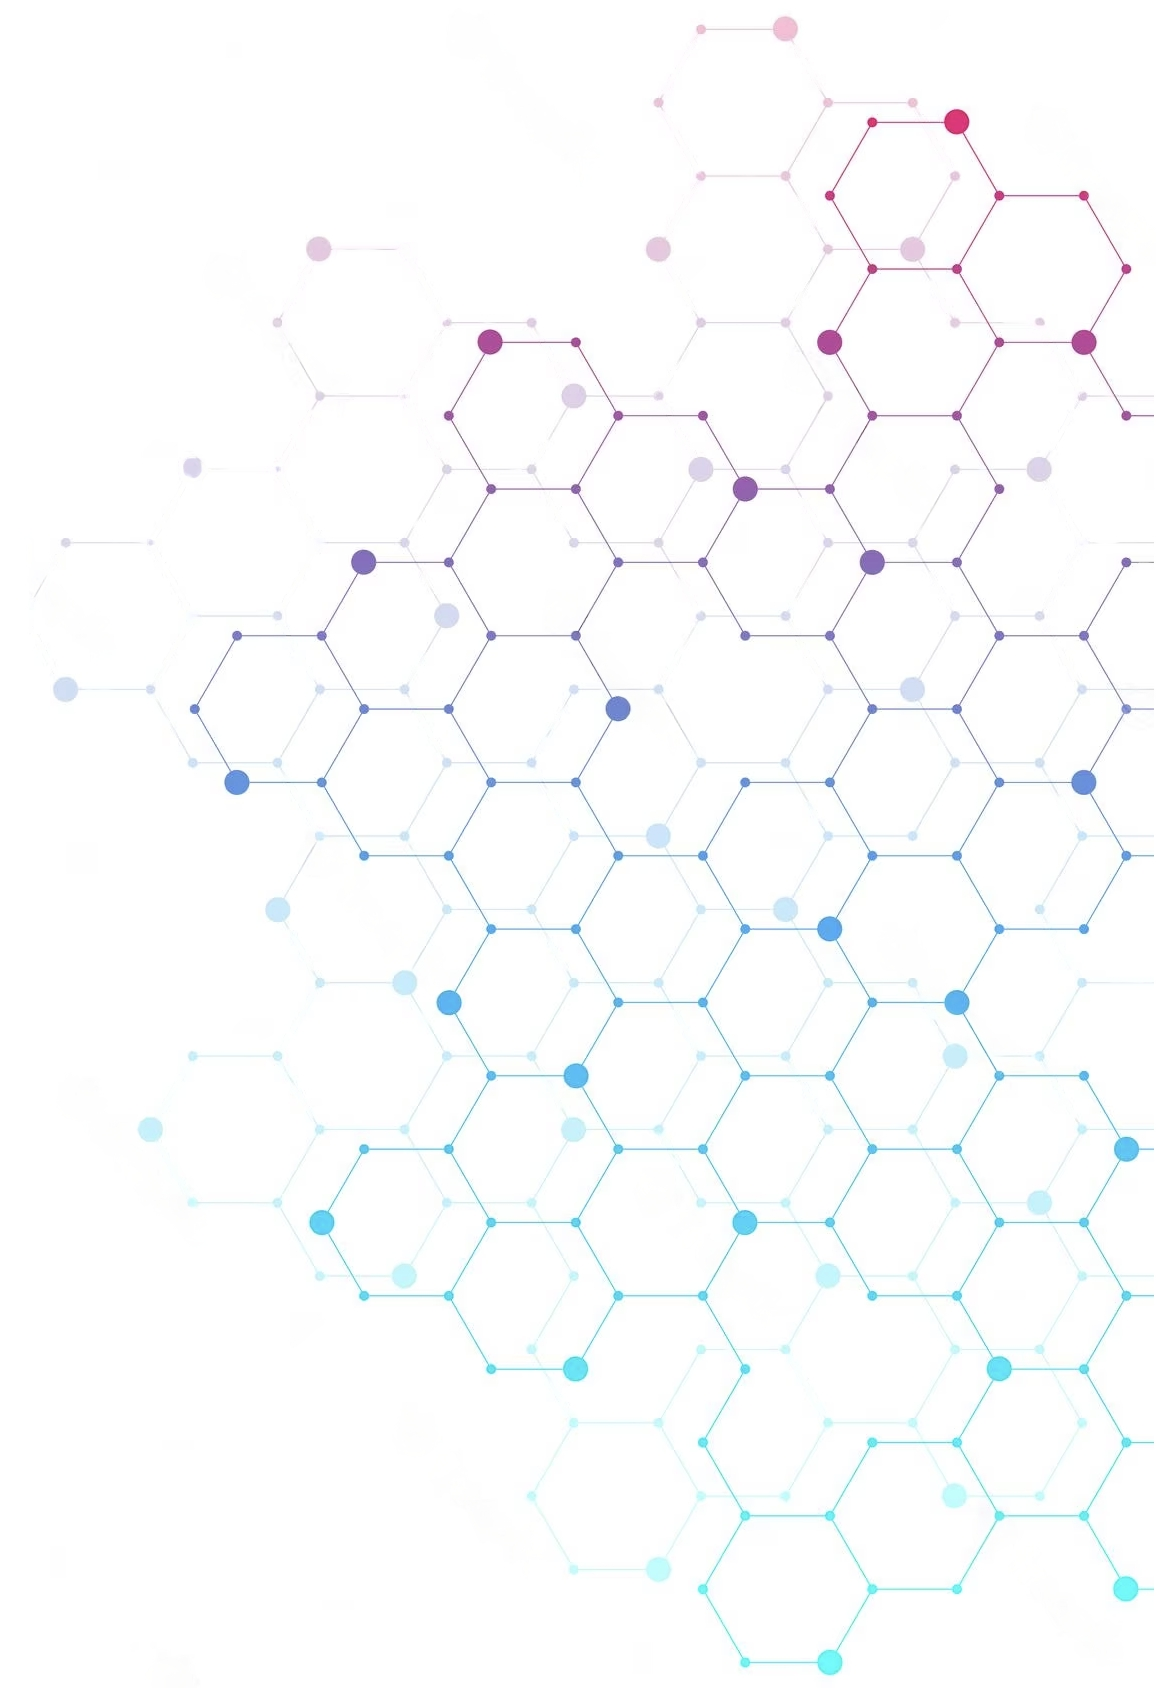
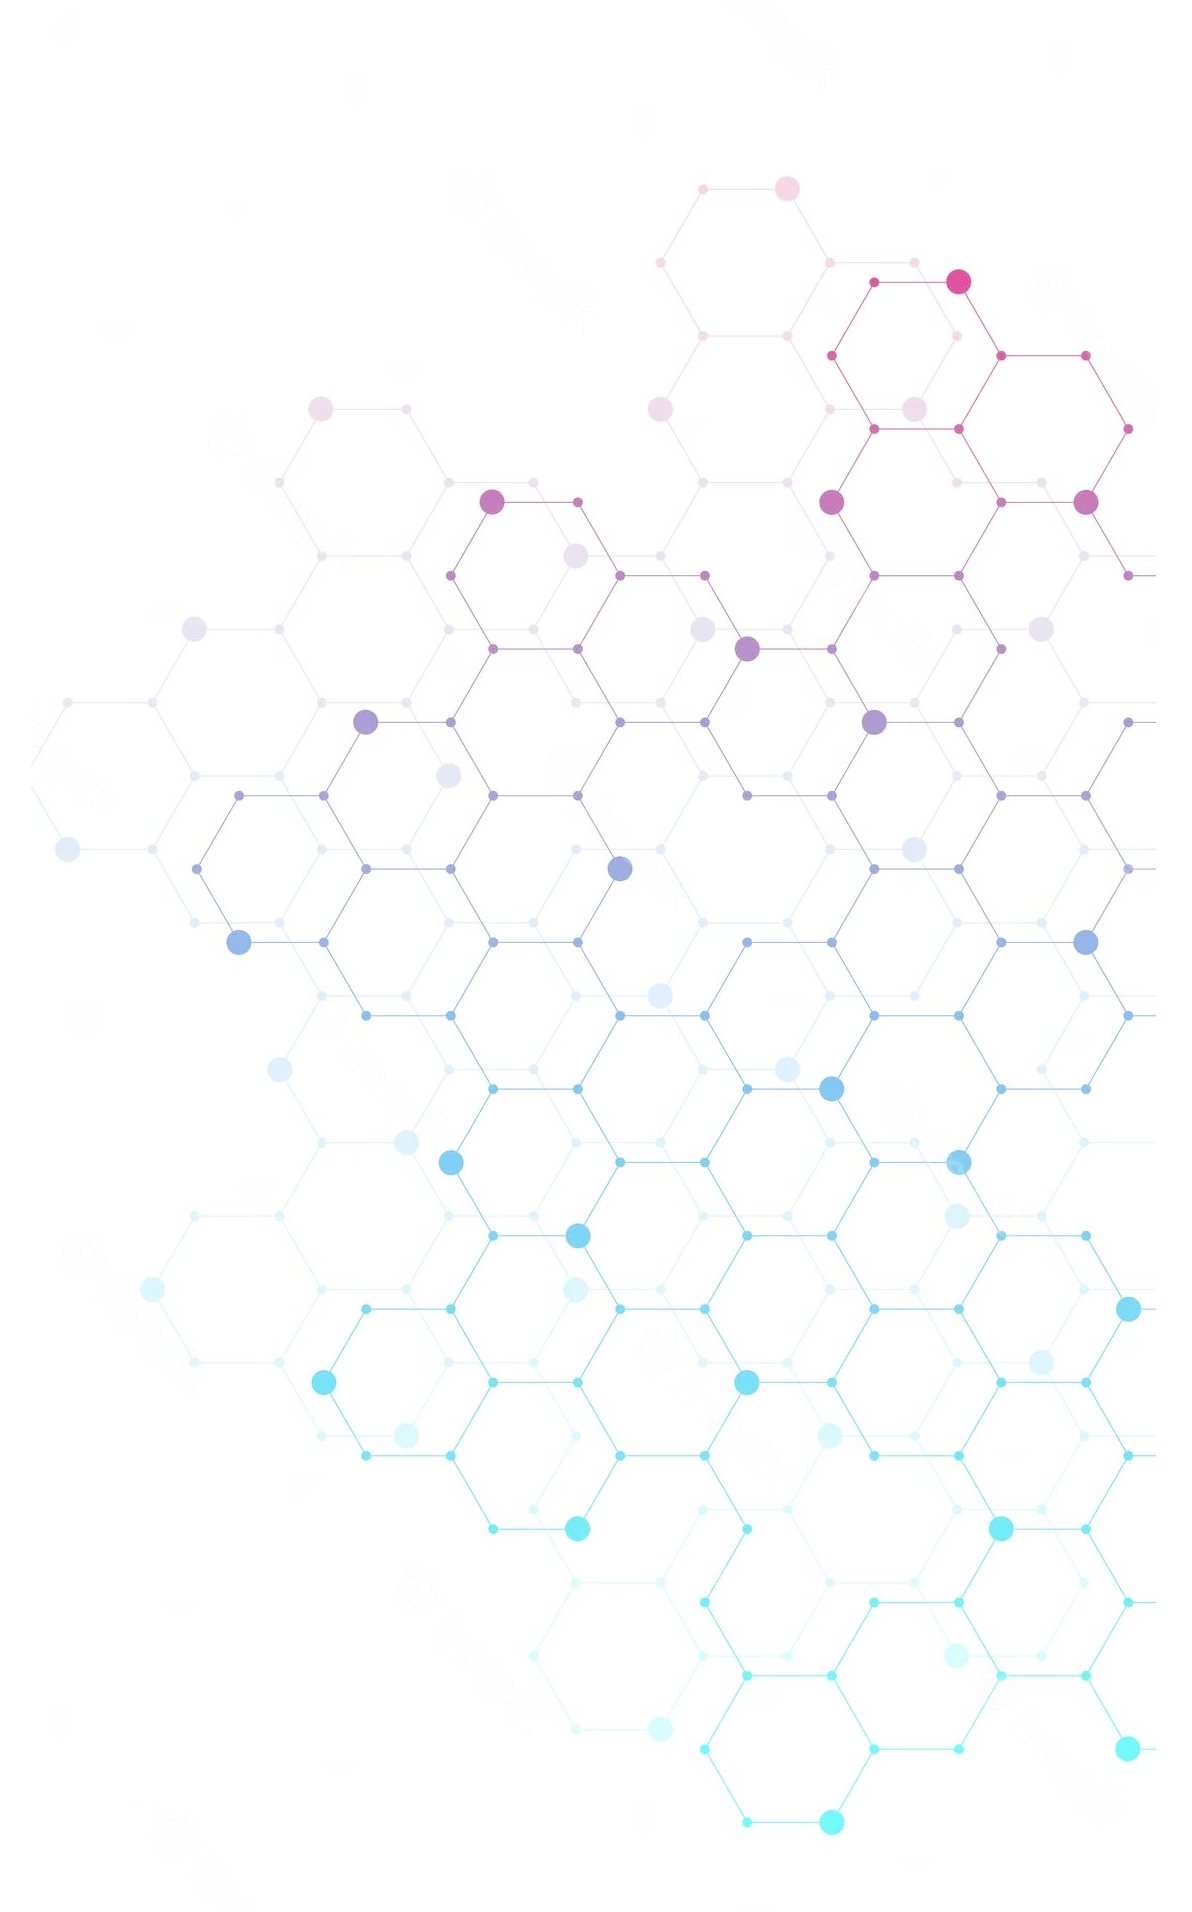
images

diff --git a/style.css b/style.css
@@ -841,7 +841,7 @@ font-weight: bolder;
 
 body{
 background-position: bottom top;
-background-size: 170%;
+background-size: 180%;
 }
 
 #one{
@@ -1545,8 +1545,8 @@ margin-left: 23px;
 }
 
 body{
-background-position: right top;
-background-size: 40%;
+background-position: right;
+background-size: 68%;
 }
 
 #one{
@@ -1788,11 +1788,7 @@ text-align: center;
   #contact{
     margin-top: 500px;
   }
-
-
 }
-
-
 
 @media only screen and (min-width: 1280px) and (max-device-height: 800px){
   #contact{
@@ -1845,9 +1841,8 @@ margin-left: 23px;
 }
 
 body{
-  
-background-position: top right;
-background-size: 40%;
+background-position: bottom right;
+background-size: 50%;
 }
 
 #one{
